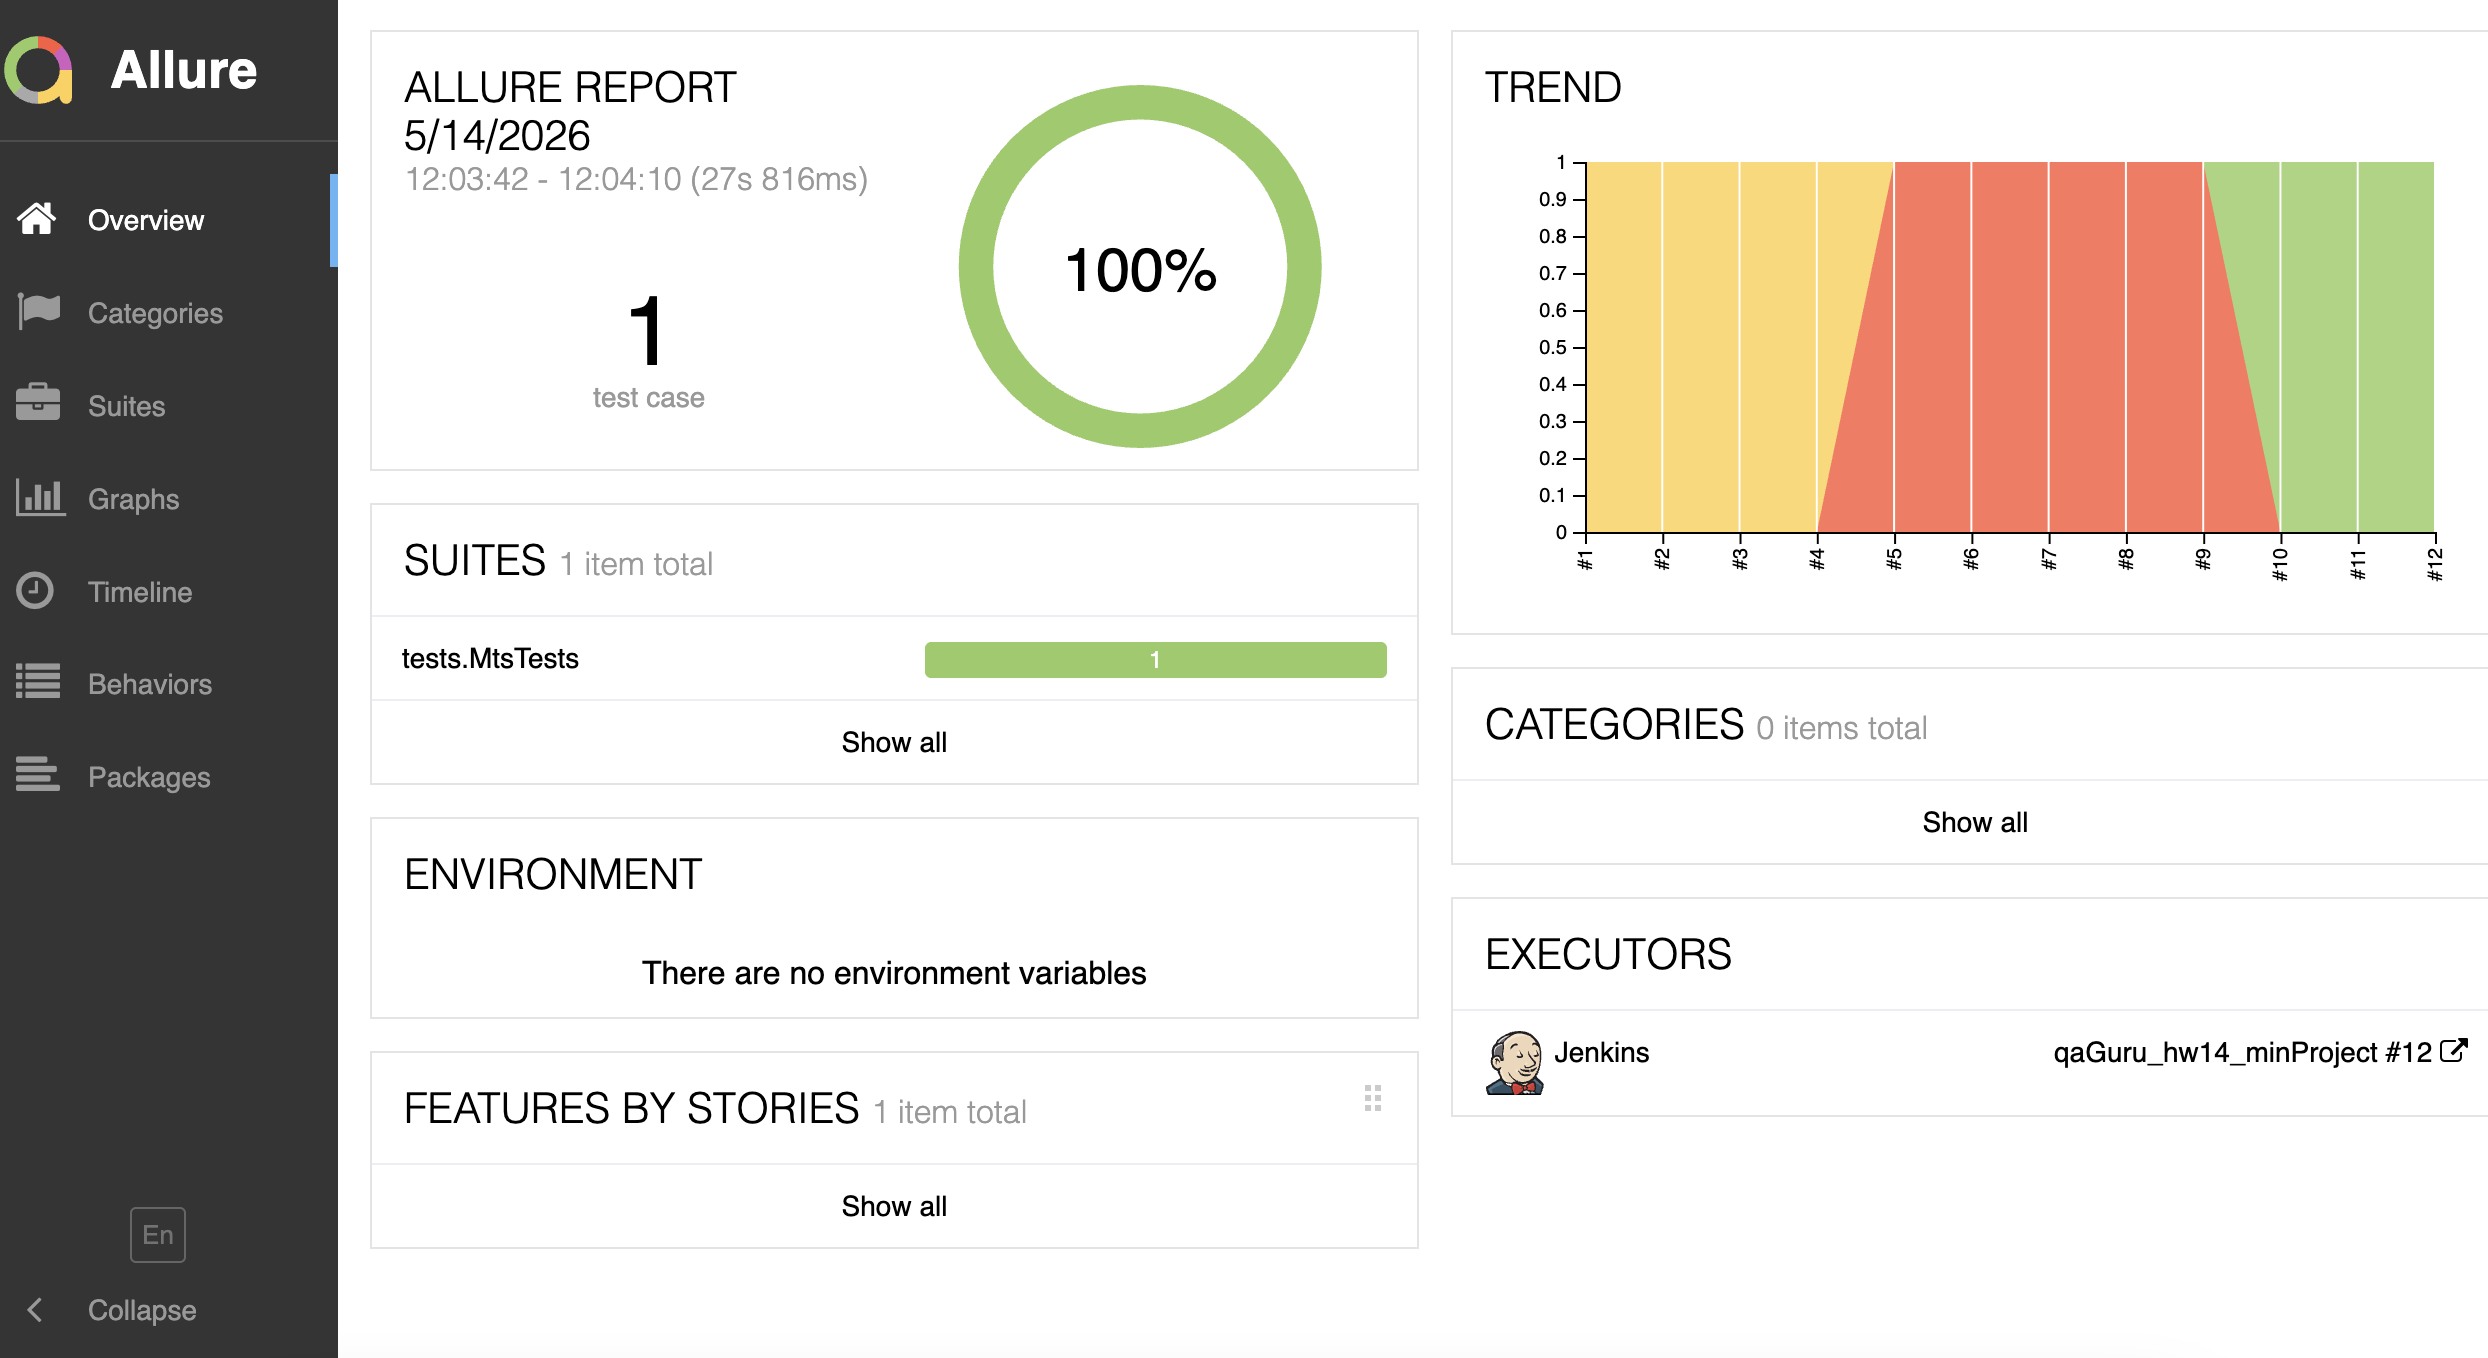
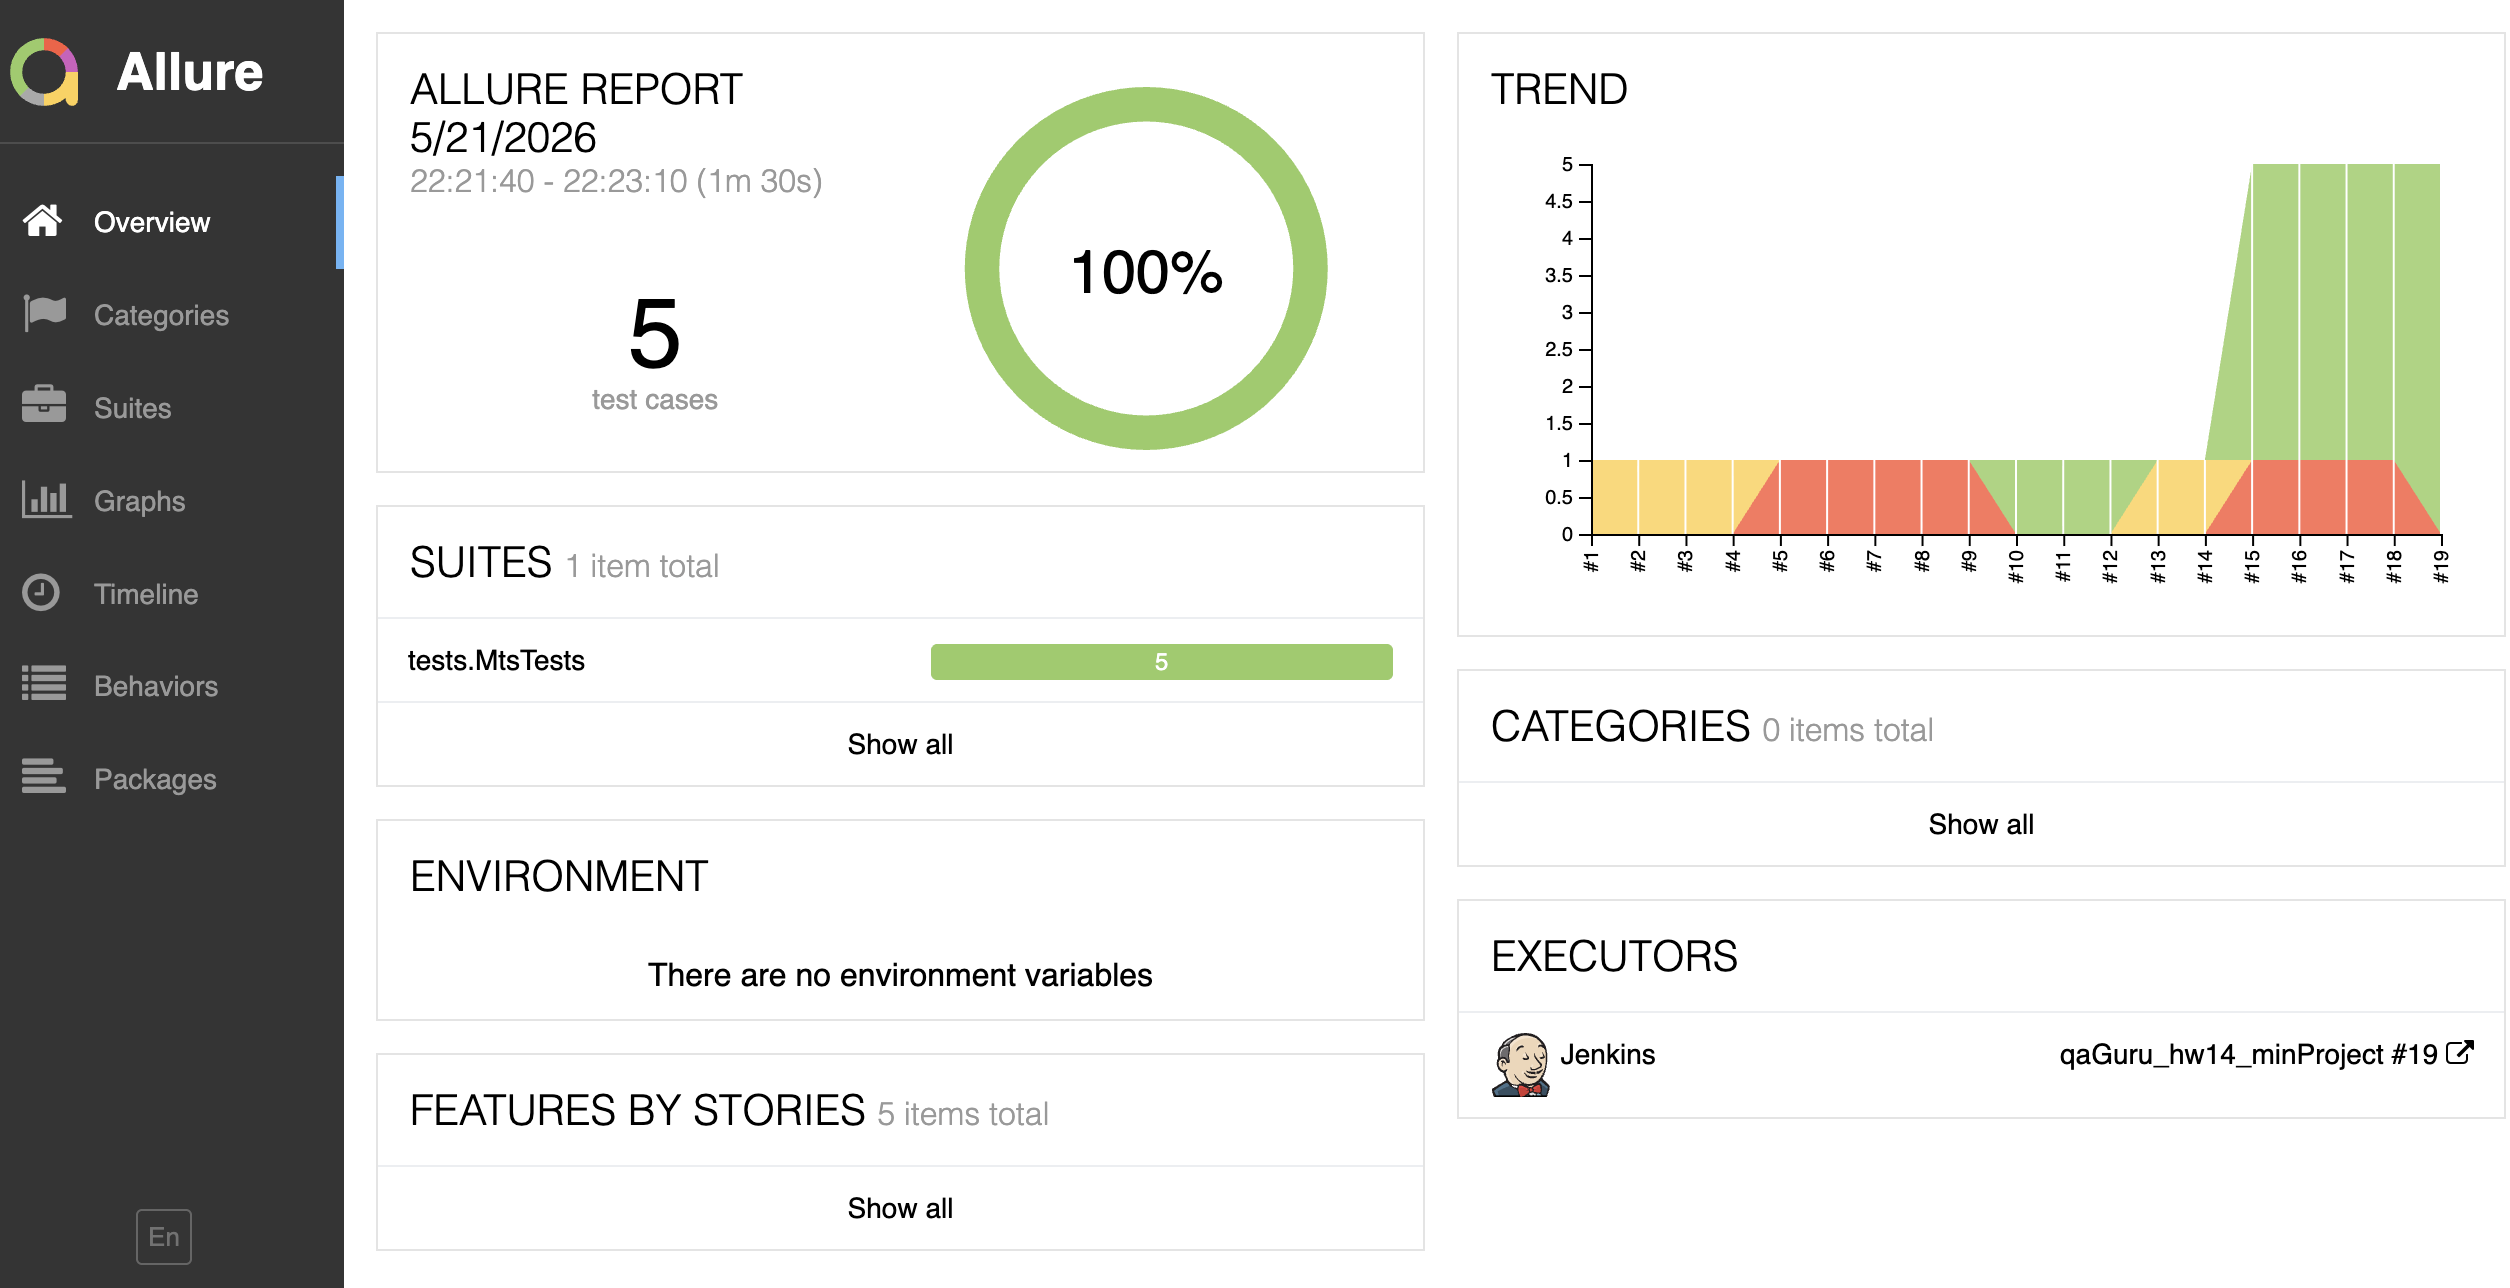
fix README

diff --git a/README.md b/README.md
@@ -40,13 +40,13 @@
 > ![Allure Dashboard](media/allure_main.png)
 > > **Скриншот с отражением аннотаций и вложений:**
 > ![Allure Suites](media/allure_suites.png)
-> [Ссылка на пример отчета](https://jenkins.autotests.cloud/view/java_students/job/qaGuru_hw14_minProject/16/allure/)
+> [Ссылка на пример отчета](https://jenkins.autotests.cloud/view/java_students/job/qaGuru_hw14_minProject/19/allure/)
 
 #### Jenkins Pipeline
 Тесты запускаются автоматически на удаленном сервере. Проект полностью интегрирован в CI/CD процесс.
 > > **Скриншот страницы запуска сборки с возможностью настройки необходимых параметров:**
 > ![Jenkins Build page](media/jenkins_build_with_parameters.png)
-> [Ссылка на пример сборки](https://jenkins.autotests.cloud/view/java_students/job/qaGuru_hw14_minProject/16/)
+> [Ссылка на пример сборки](https://jenkins.autotests.cloud/view/java_students/job/qaGuru_hw14_minProject/19/)
 
 #### Telegram Notifications
 Результат каждого билда приходит в Telegram с указанием количества успешных/упавших тестов и ссылкой на отчет.
